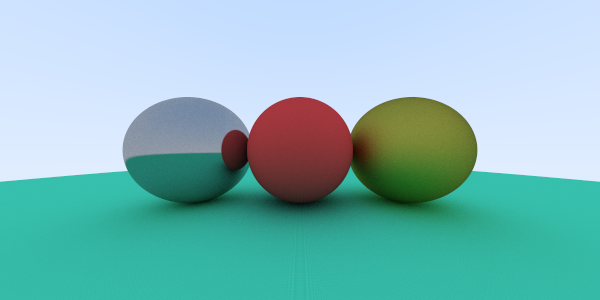
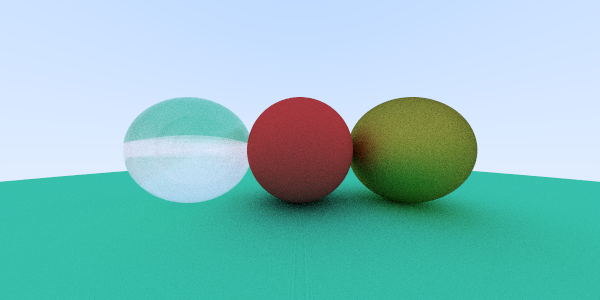
dielectric

Changed region(s): [[0.18, 0.3, 0.45, 0.75]]

diff --git a/material.h b/material.h
@@ -62,6 +62,25 @@ vec3 reflect(const vec3& v, const vec3& n) {
 	return v - 2 * dot(v, n)*n;
 }
 
+bool refract(const vec3& v,const vec3& n,float ni_over_nt,vec3& refracted) {
+	vec3 uv = unit_vector(v);
+	float dt = dot(uv,n);
+	float discriminant = 1.0 - ni_over_nt * ni_over_nt*(1 - dt * dt);
+	if (discriminant > 0) {
+		refracted = ni_over_nt * (uv - n * dt) - n * sqrt(discriminant);
+		return true;
+	}
+	else {
+		return false;
+	}
+}
+
+float schlick(float cosine,float ref_idx) {
+	float r0 = (1 - ref_idx) / (1 + ref_idx);
+	r0 = r0 * r0;
+	return r0 + (1 - r0)*pow((1-cosine),5);
+}
+
 
 class metal : public material {
 public:
@@ -74,5 +93,49 @@ public:
 	}
 	vec3 albedo;
 	float fuzz;
+};
+
+class dielectric : public material {
+public:
+	dielectric(float ri) : ref_idx(ri){}
+	virtual bool scatter(const ray& r_in, const hit_record& rec, vec3& attenuation, ray& scattered) const {
+		vec3 outward_normal;
+		vec3 reflected = reflect(r_in.direction(),rec.normal);
+		float ni_over_nt;
+		attenuation = vec3(1.0,1.0,1.0);
+		vec3 refracted;
+		float reflect_prob;
+		float cosine;
+
+
+		if (dot(r_in.direction(), rec.normal) > 0) {
+			outward_normal = -rec.normal;
+			ni_over_nt = ref_idx;
+			cosine = ref_idx * dot(r_in.direction(), rec.normal) / r_in.direction().length();
+		}
+		else {
+			outward_normal = rec.normal;
+			ni_over_nt = 1.0 / ref_idx;
+			cosine = -dot(r_in.direction(), rec.normal) / r_in.direction().length();
+		}
+		if (refract(r_in.direction(),outward_normal,ni_over_nt,refracted)) {
+			//scattered = ray(rec.p,refracted);
+			reflect_prob = schlick(cosine,ref_idx);
+		}
+		else {
+			scattered = ray(rec.p,reflected);
+			reflect_prob = 1.0;
+			//return false;
+		}
+		if (Rands() < reflect_prob) {
+			scattered = ray(rec.p, reflected);
+		}
+		else{
+			scattered = ray(rec.p, refracted);
+		}
+		return true;
+	}
+	float ref_idx;
+
 };
 #endif // !MATERIALH

diff --git a/ConsoleApplication2.cpp b/ConsoleApplication2.cpp
@@ -131,7 +131,7 @@ int main()
 {
 	const int nx = 600;
 	const int ny = 300;
-	int ns = 1000;
+	int ns = 100;
 	std::cout << "P3\n" << nx << " " << ny << "\n255\n";
 	//vec3 camera(0, 0, 0);
 	float width = 4;
@@ -148,7 +148,7 @@ int main()
 	list[0] = new sphere(vec3(0,0,-1.5),0.5, new lambertian(vec3(0.8, 0.1, 0.1)));
 	list[1] = new sphere(vec3(0, -100.5, -1.5), 100, new lambertian(vec3(0.1, 0.8, 0.5)));
 	list[2] = new sphere(vec3(1, 0, -1.5), 0.5, new metal(vec3(0.8, 0.7, 0.1),1.0));
-	list[3] = new sphere(vec3(-1, 0, -1.5), 0.5, new metal(vec3(0.8, 0.8, 0.8),0.03));
+	list[3] = new sphere(vec3(-1, 0, -1.5), 0.5, new dielectric(1.5));
 	hitable *world = new hitable_list(list, 4);
 
 	camera cam;
